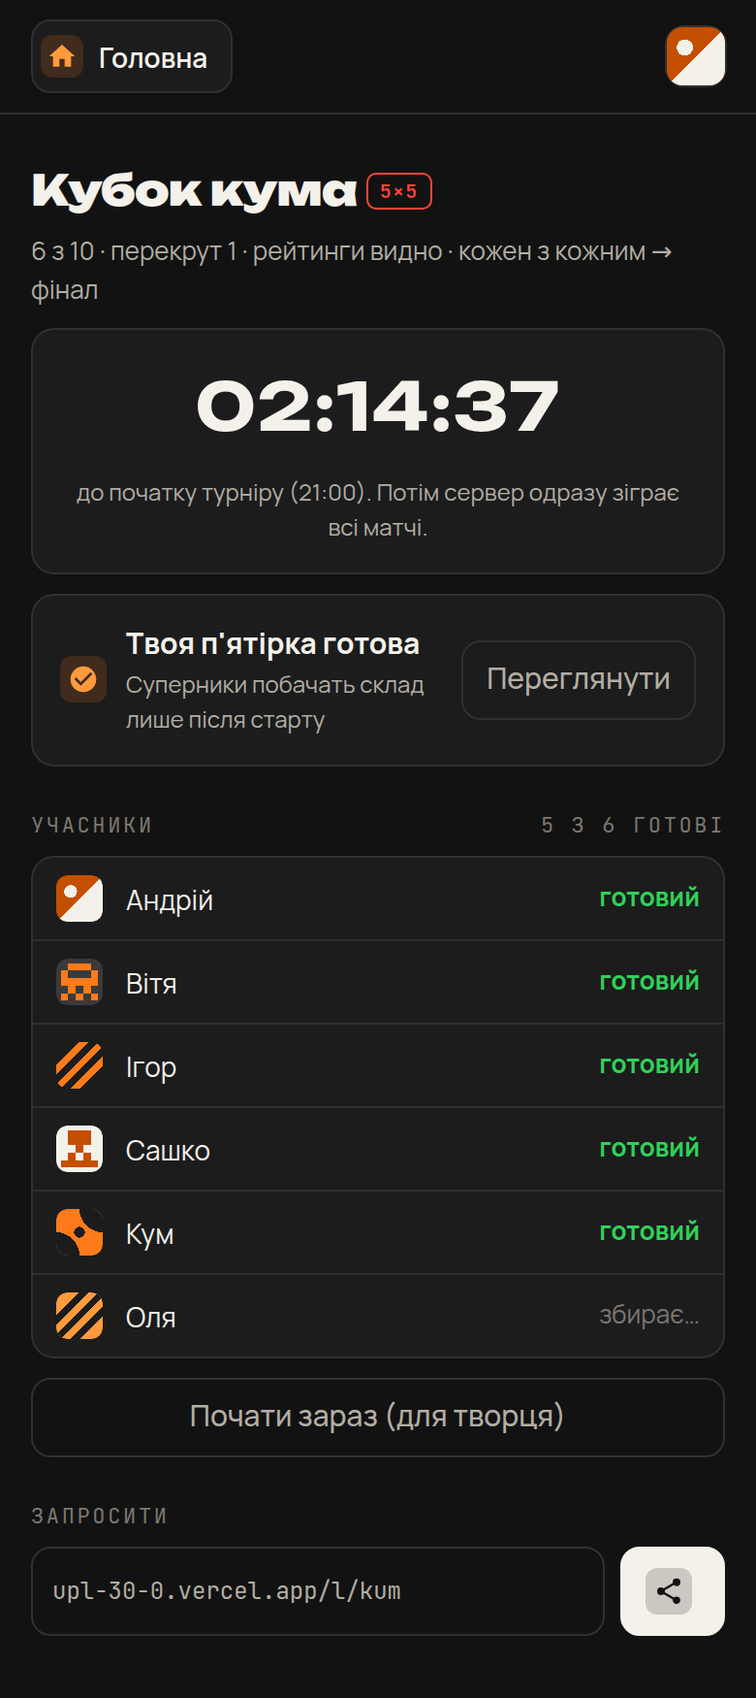
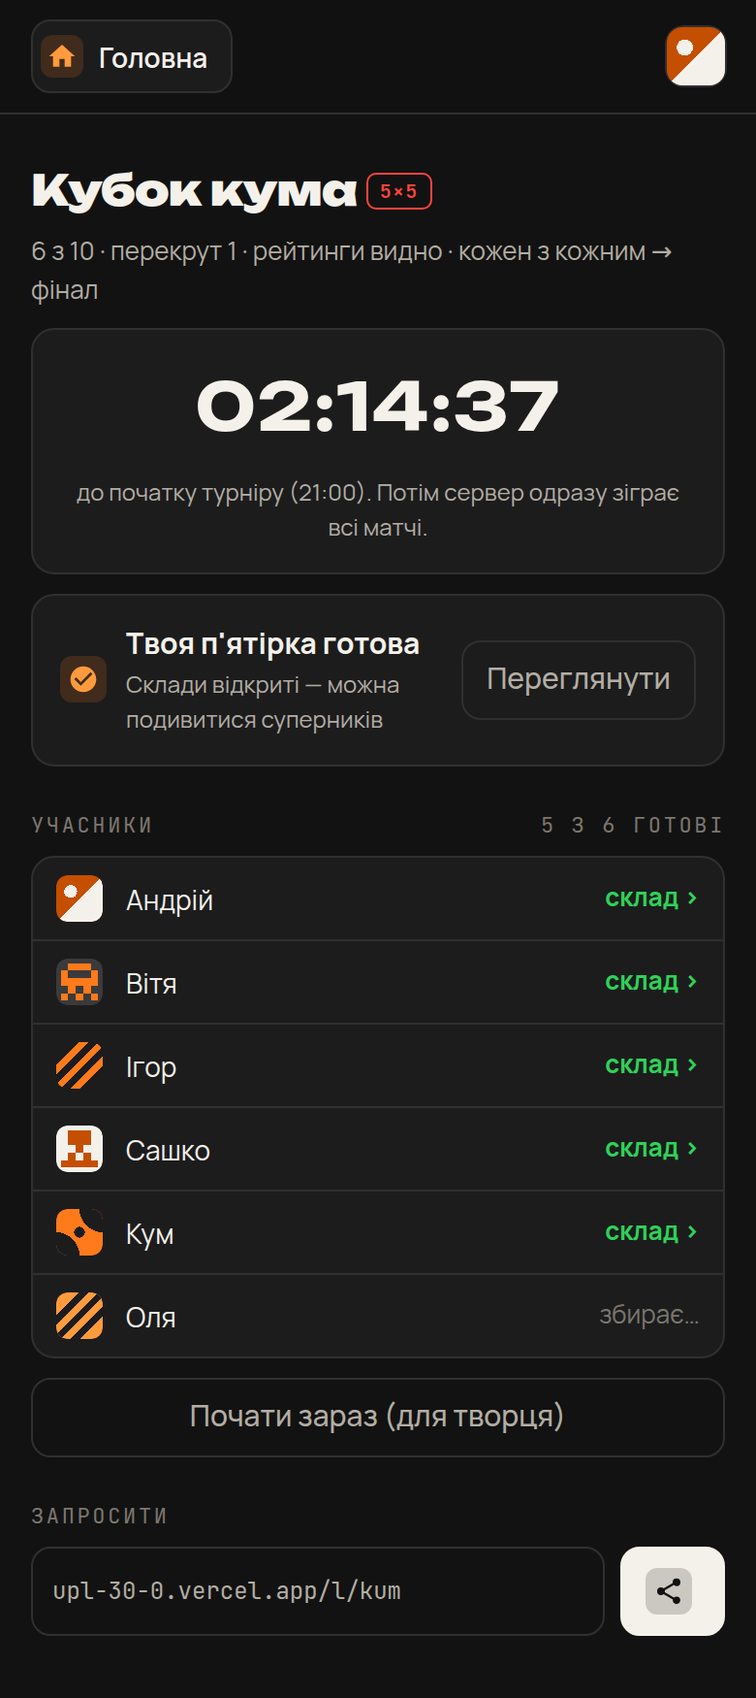
Ліги: склади 5×5 відкриті, «Рейтинги гравців», сучасність з 2015/16; макети затверджено
Claude-Session: https://claude.ai/code/session_01Y4Xuhh4kofeZW6QkSmyDid

diff --git a/docs/mockups/lg_4_lobby5.html b/docs/mockups/lg_4_lobby5.html
@@ -425,8 +425,8 @@ body.dimmed{position:relative}.dim{position:absolute;inset:0;background:rgba(0,0
 </style><header class="top"><button class="nav"><i class="ic"><svg class="ico" viewBox="0 0 24 24" aria-hidden="true"><path d="M10 20v-6h4v6h5v-8h3L12 3 2 12h3v8z"/></svg></i>Головна</button><button class="avbtn" title="Моя сторінка"><svg class="av" width="30" height="30" viewBox="0 0 100 100" aria-hidden="true"><defs><clipPath id="c3963316058"><rect width="100" height="100" rx="22"/></clipPath></defs><g clip-path="url(#c3963316058)"><rect width="100" height="100" fill="#c44f00"/><g fill="#f4f1ea" shape-rendering="crispEdges"><path d="M0 100 L100 0 L100 100 Z"/><circle cx="31" cy="35" r="14"/></g></g></svg></button></header><div class="lg-h" style="text-align:left"><h1 style="font-size:22px">Кубок кума <span class="lg-tag f5" style="vertical-align:4px">5×5</span></h1></div>
 <p class="muted" style="font-size:13px">6 з 10 · перекрут 1 · рейтинги видно · кожен з кожним → фінал</p>
 <div class="lg-card lg-timer"><b>02:14:37</b><span>до початку турніру (21:00). Потім сервер одразу зіграє всі матчі.</span></div>
-<div class="lg-card" style="margin-top:10px;grid-template-columns:auto 1fr auto;align-items:center"><i class="ic"><svg class="ico" viewBox="0 0 24 24" aria-hidden="true"><path d="M12 2C6.5 2 2 6.5 2 12s4.5 10 10 10 10-4.5 10-10S17.5 2 12 2m-2 15-5-5 1.41-1.41L10 14.17l7.59-7.59L19 8z"/></svg></i><div><b>Твоя п'ятірка готова</b><div class="muted" style="font-size:12px">Суперники побачать склад лише після старту</div></div><button class="ghost">Переглянути</button></div>
+<div class="lg-card" style="margin-top:10px;grid-template-columns:auto 1fr auto;align-items:center"><i class="ic"><svg class="ico" viewBox="0 0 24 24" aria-hidden="true"><path d="M12 2C6.5 2 2 6.5 2 12s4.5 10 10 10 10-4.5 10-10S17.5 2 12 2m-2 15-5-5 1.41-1.41L10 14.17l7.59-7.59L19 8z"/></svg></i><div><b>Твоя п'ятірка готова</b><div class="muted" style="font-size:12px">Склади відкриті — можна подивитися суперників</div></div><button class="ghost">Переглянути</button></div>
 <div class="lg-k"><span>Учасники</span><span>5 з 6 готові</span></div>
-<div class="lg-tbl"><div class="lg-tr" style="grid-template-columns:28px 1fr auto"><svg class="av" width="24" height="24" viewBox="0 0 100 100" aria-hidden="true"><defs><clipPath id="c3963316058"><rect width="100" height="100" rx="22"/></clipPath></defs><g clip-path="url(#c3963316058)"><rect width="100" height="100" fill="#c44f00"/><g fill="#f4f1ea" shape-rendering="crispEdges"><path d="M0 100 L100 0 L100 100 Z"/><circle cx="31" cy="35" r="14"/></g></g></svg><span>Андрій</span><span class="lg-ok">готовий</span></div><div class="lg-tr" style="grid-template-columns:28px 1fr auto"><svg class="av" width="24" height="24" viewBox="0 0 100 100" aria-hidden="true"><defs><clipPath id="c2538983044"><rect width="100" height="100" rx="22"/></clipPath></defs><g clip-path="url(#c2538983044)"><rect width="100" height="100" fill="#3a3a3c"/><g fill="#ff7a1a" shape-rendering="crispEdges"><rect x="26" y="10" width="16" height="16"/><rect x="58" y="10" width="16" height="16"/><rect x="42" y="10" width="16" height="16"/><rect x="10" y="26" width="16" height="16"/><rect x="74" y="26" width="16" height="16"/><rect x="10" y="42" width="16" height="16"/><rect x="74" y="42" width="16" height="16"/><rect x="26" y="42" width="16" height="16"/><rect x="58" y="42" width="16" height="16"/><rect x="42" y="42" width="16" height="16"/><rect x="26" y="58" width="16" height="16"/><rect x="58" y="58" width="16" height="16"/><rect x="10" y="74" width="16" height="16"/><rect x="74" y="74" width="16" height="16"/><rect x="42" y="74" width="16" height="16"/></g></g></svg><span>Вітя</span><span class="lg-ok">готовий</span></div><div class="lg-tr" style="grid-template-columns:28px 1fr auto"><svg class="av" width="24" height="24" viewBox="0 0 100 100" aria-hidden="true"><defs><clipPath id="c398005409"><rect width="100" height="100" rx="22"/></clipPath></defs><g clip-path="url(#c398005409)"><rect width="100" height="100" fill="#1c1c1d"/><g fill="#ff7a1a" shape-rendering="crispEdges"><g transform="rotate(-45 50 50)"><rect x="-20" y="14" width="140" height="14"/><rect x="-20" y="43" width="140" height="14"/><rect x="-20" y="72" width="140" height="14"/></g></g></g></svg><span>Ігор</span><span class="lg-ok">готовий</span></div><div class="lg-tr" style="grid-template-columns:28px 1fr auto"><svg class="av" width="24" height="24" viewBox="0 0 100 100" aria-hidden="true"><defs><clipPath id="c1458910797"><rect width="100" height="100" rx="22"/></clipPath></defs><g clip-path="url(#c1458910797)"><rect width="100" height="100" fill="#f4f1ea"/><g fill="#c44f00" shape-rendering="crispEdges"><rect x="26" y="10" width="16" height="16"/><rect x="58" y="10" width="16" height="16"/><rect x="42" y="10" width="16" height="16"/><rect x="26" y="26" width="16" height="16"/><rect x="58" y="26" width="16" height="16"/><rect x="42" y="26" width="16" height="16"/><rect x="42" y="42" width="16" height="16"/><rect x="26" y="58" width="16" height="16"/><rect x="58" y="58" width="16" height="16"/><rect x="10" y="74" width="16" height="16"/><rect x="74" y="74" width="16" height="16"/><rect x="26" y="74" width="16" height="16"/><rect x="58" y="74" width="16" height="16"/><rect x="42" y="74" width="16" height="16"/></g></g></svg><span>Сашко</span><span class="lg-ok">готовий</span></div><div class="lg-tr" style="grid-template-columns:28px 1fr auto"><svg class="av" width="24" height="24" viewBox="0 0 100 100" aria-hidden="true"><defs><clipPath id="c2749746680"><rect width="100" height="100" rx="22"/></clipPath></defs><g clip-path="url(#c2749746680)"><rect width="100" height="100" fill="#ff7a1a"/><g fill="#1c1c1d" shape-rendering="crispEdges"><circle cx="100" cy="0" r="50"/><circle cx="0" cy="100" r="50"/><circle cx="50" cy="50" r="12"/></g></g></svg><span>Кум</span><span class="lg-ok">готовий</span></div><div class="lg-tr" style="grid-template-columns:28px 1fr auto"><svg class="av" width="24" height="24" viewBox="0 0 100 100" aria-hidden="true"><defs><clipPath id="c753915695"><rect width="100" height="100" rx="22"/></clipPath></defs><g clip-path="url(#c753915695)"><rect width="100" height="100" fill="#ff9a3d"/><g fill="#1c1c1d" shape-rendering="crispEdges"><g transform="rotate(-45 50 50)"><rect x="-20" y="14" width="140" height="14"/><rect x="-20" y="43" width="140" height="14"/><rect x="-20" y="72" width="140" height="14"/></g></g></g></svg><span>Оля</span><span class="lg-wait">збирає…</span></div></div>
+<div class="lg-tbl"><div class="lg-tr" style="grid-template-columns:28px 1fr auto"><svg class="av" width="24" height="24" viewBox="0 0 100 100" aria-hidden="true"><defs><clipPath id="c3963316058"><rect width="100" height="100" rx="22"/></clipPath></defs><g clip-path="url(#c3963316058)"><rect width="100" height="100" fill="#c44f00"/><g fill="#f4f1ea" shape-rendering="crispEdges"><path d="M0 100 L100 0 L100 100 Z"/><circle cx="31" cy="35" r="14"/></g></g></svg><span>Андрій</span><span class="lg-ok">склад ›</span></div><div class="lg-tr" style="grid-template-columns:28px 1fr auto"><svg class="av" width="24" height="24" viewBox="0 0 100 100" aria-hidden="true"><defs><clipPath id="c2538983044"><rect width="100" height="100" rx="22"/></clipPath></defs><g clip-path="url(#c2538983044)"><rect width="100" height="100" fill="#3a3a3c"/><g fill="#ff7a1a" shape-rendering="crispEdges"><rect x="26" y="10" width="16" height="16"/><rect x="58" y="10" width="16" height="16"/><rect x="42" y="10" width="16" height="16"/><rect x="10" y="26" width="16" height="16"/><rect x="74" y="26" width="16" height="16"/><rect x="10" y="42" width="16" height="16"/><rect x="74" y="42" width="16" height="16"/><rect x="26" y="42" width="16" height="16"/><rect x="58" y="42" width="16" height="16"/><rect x="42" y="42" width="16" height="16"/><rect x="26" y="58" width="16" height="16"/><rect x="58" y="58" width="16" height="16"/><rect x="10" y="74" width="16" height="16"/><rect x="74" y="74" width="16" height="16"/><rect x="42" y="74" width="16" height="16"/></g></g></svg><span>Вітя</span><span class="lg-ok">склад ›</span></div><div class="lg-tr" style="grid-template-columns:28px 1fr auto"><svg class="av" width="24" height="24" viewBox="0 0 100 100" aria-hidden="true"><defs><clipPath id="c398005409"><rect width="100" height="100" rx="22"/></clipPath></defs><g clip-path="url(#c398005409)"><rect width="100" height="100" fill="#1c1c1d"/><g fill="#ff7a1a" shape-rendering="crispEdges"><g transform="rotate(-45 50 50)"><rect x="-20" y="14" width="140" height="14"/><rect x="-20" y="43" width="140" height="14"/><rect x="-20" y="72" width="140" height="14"/></g></g></g></svg><span>Ігор</span><span class="lg-ok">склад ›</span></div><div class="lg-tr" style="grid-template-columns:28px 1fr auto"><svg class="av" width="24" height="24" viewBox="0 0 100 100" aria-hidden="true"><defs><clipPath id="c1458910797"><rect width="100" height="100" rx="22"/></clipPath></defs><g clip-path="url(#c1458910797)"><rect width="100" height="100" fill="#f4f1ea"/><g fill="#c44f00" shape-rendering="crispEdges"><rect x="26" y="10" width="16" height="16"/><rect x="58" y="10" width="16" height="16"/><rect x="42" y="10" width="16" height="16"/><rect x="26" y="26" width="16" height="16"/><rect x="58" y="26" width="16" height="16"/><rect x="42" y="26" width="16" height="16"/><rect x="42" y="42" width="16" height="16"/><rect x="26" y="58" width="16" height="16"/><rect x="58" y="58" width="16" height="16"/><rect x="10" y="74" width="16" height="16"/><rect x="74" y="74" width="16" height="16"/><rect x="26" y="74" width="16" height="16"/><rect x="58" y="74" width="16" height="16"/><rect x="42" y="74" width="16" height="16"/></g></g></svg><span>Сашко</span><span class="lg-ok">склад ›</span></div><div class="lg-tr" style="grid-template-columns:28px 1fr auto"><svg class="av" width="24" height="24" viewBox="0 0 100 100" aria-hidden="true"><defs><clipPath id="c2749746680"><rect width="100" height="100" rx="22"/></clipPath></defs><g clip-path="url(#c2749746680)"><rect width="100" height="100" fill="#ff7a1a"/><g fill="#1c1c1d" shape-rendering="crispEdges"><circle cx="100" cy="0" r="50"/><circle cx="0" cy="100" r="50"/><circle cx="50" cy="50" r="12"/></g></g></svg><span>Кум</span><span class="lg-ok">склад ›</span></div><div class="lg-tr" style="grid-template-columns:28px 1fr auto"><svg class="av" width="24" height="24" viewBox="0 0 100 100" aria-hidden="true"><defs><clipPath id="c753915695"><rect width="100" height="100" rx="22"/></clipPath></defs><g clip-path="url(#c753915695)"><rect width="100" height="100" fill="#ff9a3d"/><g fill="#1c1c1d" shape-rendering="crispEdges"><g transform="rotate(-45 50 50)"><rect x="-20" y="14" width="140" height="14"/><rect x="-20" y="43" width="140" height="14"/><rect x="-20" y="72" width="140" height="14"/></g></g></g></svg><span>Оля</span><span class="lg-wait">збирає…</span></div></div>
 <div style="height:10px"></div><button class="ghost" style="width:100%">Почати зараз (для творця)</button>
 <div class="lg-k"><span>Запросити</span></div><div class="lg-link"><input value="upl-30-0.vercel.app/l/kum" readonly><button class="primary"><i class="ic"><svg class="ico" viewBox="0 0 24 24" aria-hidden="true"><path d="M18 16.08c-.76 0-1.44.3-1.96.77L8.91 12.7c.05-.23.09-.46.09-.7s-.04-.47-.09-.7l7.05-4.11c.54.5 1.25.81 2.04.81a3 3 0 0 0 3-3 3 3 0 0 0-3-3 3 3 0 0 0-3 3c0 .24.04.47.09.7L8.04 9.81C7.5 9.31 6.79 9 6 9a3 3 0 0 0-3 3 3 3 0 0 0 3 3c.79 0 1.5-.31 2.04-.81l7.12 4.15c-.05.21-.08.43-.08.66 0 1.61 1.31 2.91 2.92 2.91s2.92-1.3 2.92-2.91A2.92 2.92 0 0 0 18 16.08"/></svg></i></button></div></div></body></html>

diff --git a/docs/mockups/leagues.js b/docs/mockups/leagues.js
@@ -80,8 +80,8 @@ module.exports = ({ page, header, I, icon, avatar, ME }) => {
 <div class="lg-k"><span>Спроби на день</span></div><div class="lg-opts">${opt('1 спроба', 'без права на помилку')}${opt('3 спроби', '', 1)}</div>
 <div class="lg-k"><span>У залік туру</span></div><div class="lg-opts">${opt('Найкраща', 'твій максимум за день', 1)}${opt('Остання', 'ризиковано: переграв — замінив')}</div>
 <div class="lg-k"><span>Перекрути колеса</span></div><div class="lg-opts c3">${opt('3', 'легко')}${opt('1', 'нормально', 1)}${opt('0', 'хардкор')}</div>
-<div class="lg-k"><span>Рейтинги</span></div><div class="lg-opts">${opt('Видно', '', 1)}${opt('На пам\'ять', 'рейтинги приховані')}</div>
-<div class="lg-k"><span>Епоха</span></div><div class="lg-opts">${opt('Усі роки', '1992–2026', 1)}${opt('З 2000-х', '2000/01–2025/26')}${opt('З 2010-х', '2010/11–2025/26')}${opt('Сучасність', 'з 2016/17')}</div>
+<div class="lg-k"><span>Рейтинги гравців</span></div><div class="lg-opts">${opt('Видно', '', 1)}${opt('На пам\'ять', 'рейтинги приховані')}</div>
+<div class="lg-k"><span>Епоха</span></div><div class="lg-opts">${opt('Усі роки', '1992–2026', 1)}${opt('З 2000-х', '2000/01–2025/26')}${opt('З 2010-х', '2010/11–2025/26')}${opt('Сучасність', 'з 2015/16')}</div>
 <div style="height:18px"></div><button class="lg-big">Створити й грати</button><p class="lg-hint">Далі — посилання для друзів і твоя перша спроба.</p>`);
 
   // 3. Ліга 11×11
@@ -102,9 +102,9 @@ module.exports = ({ page, header, I, icon, avatar, ME }) => {
   files.lg_4_lobby5 = P('5×5 — склади', `<div class="lg-h" style="text-align:left"><h1 style="font-size:22px">Кубок кума <span class="lg-tag f5" style="vertical-align:4px">5×5</span></h1></div>
 <p class="muted" style="font-size:13px">6 з 10 · перекрут 1 · рейтинги видно · кожен з кожним → фінал</p>
 <div class="lg-card lg-timer"><b>02:14:37</b><span>до початку турніру (21:00). Потім сервер одразу зіграє всі матчі.</span></div>
-<div class="lg-card" style="margin-top:10px;grid-template-columns:auto 1fr auto;align-items:center">${I('check-circle')}<div><b>Твоя п'ятірка готова</b><div class="muted" style="font-size:12px">Суперники побачать склад лише після старту</div></div><button class="ghost">Переглянути</button></div>
+<div class="lg-card" style="margin-top:10px;grid-template-columns:auto 1fr auto;align-items:center">${I('check-circle')}<div><b>Твоя п'ятірка готова</b><div class="muted" style="font-size:12px">Склади відкриті — можна подивитися суперників</div></div><button class="ghost">Переглянути</button></div>
 <div class="lg-k"><span>Учасники</span><span>5 з 6 готові</span></div>
-<div class="lg-tbl">${L5.map(([id, n, ok]) => `<div class="lg-tr" style="grid-template-columns:28px 1fr auto">${av(id)}<span>${n}</span>${ok ? '<span class="lg-ok">готовий</span>' : '<span class="lg-wait">збирає…</span>'}</div>`).join('')}</div>
+<div class="lg-tbl">${L5.map(([id, n, ok]) => `<div class="lg-tr" style="grid-template-columns:28px 1fr auto">${av(id)}<span>${n}</span>${ok ? '<span class="lg-ok">склад ›</span>' : '<span class="lg-wait">збирає…</span>'}</div>`).join('')}</div>
 <div style="height:10px"></div><button class="ghost" style="width:100%">Почати зараз (для творця)</button>
 <div class="lg-k"><span>Запросити</span></div><div class="lg-link"><input value="upl-30-0.vercel.app/l/kum" readonly><button class="primary">${I('share-variant')}</button></div>`);
 

diff --git a/docs/mockups/lg_2_create.html b/docs/mockups/lg_2_create.html
@@ -432,6 +432,6 @@ body.dimmed{position:relative}.dim{position:absolute;inset:0;background:rgba(0,0
 <div class="lg-k"><span>Спроби на день</span></div><div class="lg-opts"><div class="lg-o"><b>1 спроба</b><small>без права на помилку</small></div><div class="lg-o on"><b>3 спроби</b></div></div>
 <div class="lg-k"><span>У залік туру</span></div><div class="lg-opts"><div class="lg-o on"><b>Найкраща</b><small>твій максимум за день</small></div><div class="lg-o"><b>Остання</b><small>ризиковано: переграв — замінив</small></div></div>
 <div class="lg-k"><span>Перекрути колеса</span></div><div class="lg-opts c3"><div class="lg-o"><b>3</b><small>легко</small></div><div class="lg-o on"><b>1</b><small>нормально</small></div><div class="lg-o"><b>0</b><small>хардкор</small></div></div>
-<div class="lg-k"><span>Рейтинги</span></div><div class="lg-opts"><div class="lg-o on"><b>Видно</b></div><div class="lg-o"><b>На пам'ять</b><small>рейтинги приховані</small></div></div>
-<div class="lg-k"><span>Епоха</span></div><div class="lg-opts"><div class="lg-o on"><b>Усі роки</b><small>1992–2026</small></div><div class="lg-o"><b>З 2000-х</b><small>2000/01–2025/26</small></div><div class="lg-o"><b>З 2010-х</b><small>2010/11–2025/26</small></div><div class="lg-o"><b>Сучасність</b><small>з 2016/17</small></div></div>
+<div class="lg-k"><span>Рейтинги гравців</span></div><div class="lg-opts"><div class="lg-o on"><b>Видно</b></div><div class="lg-o"><b>На пам'ять</b><small>рейтинги приховані</small></div></div>
+<div class="lg-k"><span>Епоха</span></div><div class="lg-opts"><div class="lg-o on"><b>Усі роки</b><small>1992–2026</small></div><div class="lg-o"><b>З 2000-х</b><small>2000/01–2025/26</small></div><div class="lg-o"><b>З 2010-х</b><small>2010/11–2025/26</small></div><div class="lg-o"><b>Сучасність</b><small>з 2015/16</small></div></div>
 <div style="height:18px"></div><button class="lg-big">Створити й грати</button><p class="lg-hint">Далі — посилання для друзів і твоя перша спроба.</p></div></body></html>

diff --git a/docs/leagues_online.md b/docs/leagues_online.md
@@ -63,7 +63,7 @@
 
 ## 5×5: сценарий по шагам (на утверждение)
 1. **Создание.** Название, перебросы (3/1/0), рейтинги видны / «на пам'ять», эпоха, срок набора (1 год / 3 год / 24 год…). Создатель сразу собирает свою пятёрку.
-2. **Ссылка** → друзья входят (только с аккаунтом), до 10 человек. Видно, кто уже собрал состав (без самих составов — чтобы не подглядывали).
+2. **Ссылка** → друзья входят (только с аккаунтом), до 10 человек. Видно, кто уже собрал состав, и **сами составы открыты** (владелец 30.09).
 3. **Сбор пятёрки:** воротарь + 4 польових через колесо, у каждого своё; схема на выбор (2-1-1, 1-2-1…). Отправил — изменить нельзя.
 4. **Дедлайн** (или все собрали и создатель нажал «Почати зараз»). Не успевшие не участвуют. Меньше 2 составов — лига отменяется.
 5. **Сервер разыгрывает всё сразу**, зерно фиксируется → результат одинаковый у всех и проверяемый:
@@ -84,3 +84,9 @@
 5. **Общая таблица** = сумма очков за туры. При равенстве — больше побед в турах → лучший одиночный сезон.
 6. **Напоминание** (Telegram-бот, по желанию): вечером, если сегодня ещё не играл: «Тур закінчується о 00:00, у тебе 3 спроби».
 7. **Финал лиги.** В последний день в 00:00 — итог, чемпион, трофеи за лигу (переможець ліги, виграв усі тури, камбек з останнього місця…), «Реванш».
+
+## Решения владельца, раунд 3 (30.09.2026)
+- «Почати зараз» у создателя — ок. Составы соперников в 5×5 **открыты** до старта.
+- В правилах подпись «Рейтинги гравців».
+- Эпоха «Сучасність» — с 2015/16.
+- Макеты `docs/mockups/lg_*.png` утверждены.

diff --git a/BACKLOG.md b/BACKLOG.md
@@ -163,4 +163,4 @@
 Варианты: (а) потолок для «не-икон» (например 89–90), 90+ только для легенд из списка; (б) добавить в формулу компонент класса (сборная, еврокубки, трансферы, награды); (в) нормировать по силе эпохи.
 Плюс режим **«пікова версія»** — каждый игрок в своём лучшем сезоне (выбор в лигах и обычных режимах). Нужен замер sim30 и 9/9 determinism. Сначала предложение владельцу.
 ### Эпохи в обычных режимах
-Выбор: усі роки / з 2000-х / з 2010-х / сучасні (с 2016/17) — и в режимах, и в лигах.
+Выбор: усі роки / з 2000-х / з 2010-х / сучасні (с 2015/16) — и в режимах, и в лигах.
